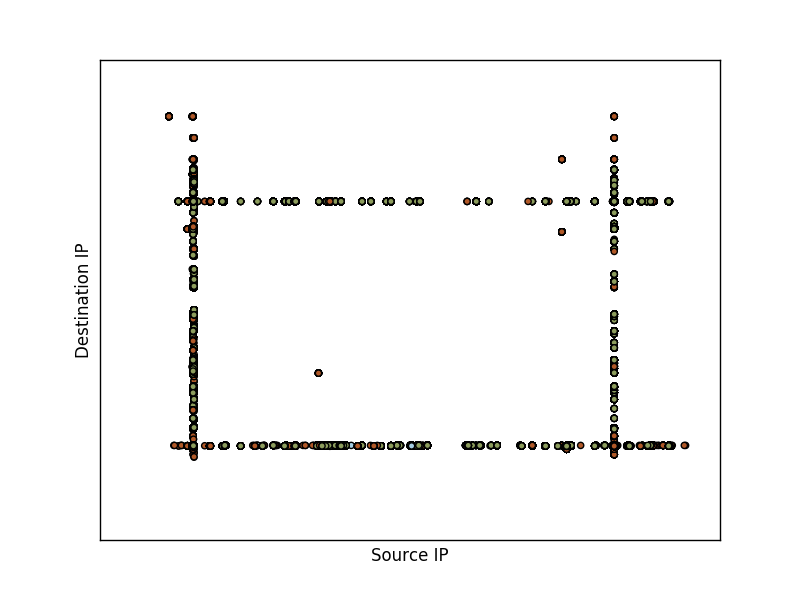
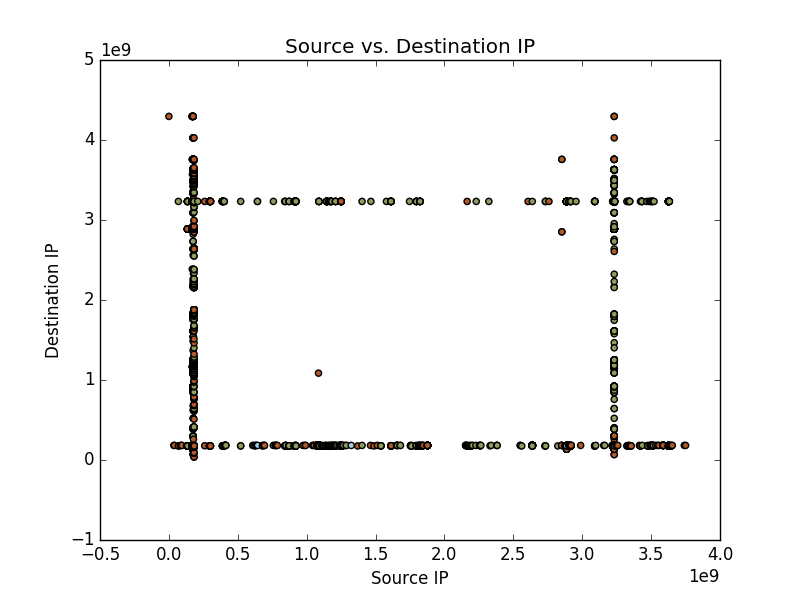
Updated feature graphs (greater performance); additional per-IP analysis graphs

diff --git a/NCCDC/csv_to_graph.py b/NCCDC/csv_to_graph.py
@@ -10,15 +10,19 @@ Example:
 
 Author: chris.sampson@naimuri.com
 '''
+'''int:    Bits representing TCP Flags'''
+# FLAG_FIN = 1
+
 import logging.config, yaml
 import sys, getopt, os.path, struct, socket
 from timeit import default_timer as timer
 
+import matplotlib
+
 import matplotlib.pyplot as plt
 import numpy as np
 
-'''int:    Bits representing TCP Flags'''
-# FLAG_FIN = 1
+
 FLAG_SYN = 2
 # FLAG_RST = 4
 # FLAG_PSH = 8
@@ -75,6 +79,29 @@ def _ipv4_int_to_dotted(ip_address):
     '''
     return socket.inet_ntoa(struct.pack("!L", int(ip_address)))
 
+def _start_plot():
+    # create a new figure
+    fig = plt.figure(figsize=(8, 6))
+    plt.clf()
+
+    return fig
+
+def _finish_plot(title, output_dir=None, output_file=None):
+
+    # add title
+    plt.title(title)
+
+    # scale to axes
+    plt.autoscale(tight=False)
+
+    if output_dir is None or output_file is None:
+        # display the graph
+        plt.show()
+    else:
+        # save image to output dir
+        plt.savefig(os.path.join(output_dir, output_file))
+    plt.close()
+
 def _draw_scatter_graph(x_points, y_points, point_labels, x_title, y_title, title, output_dir=None, output_file=None, cmap_name='Paired'):
     '''
     Draw a 2D scatter graph using matplotlib and either save to output_dir or display to user
@@ -82,8 +109,7 @@ def _draw_scatter_graph(x_points, y_points, point_labels, x_title, y_title, titl
     step_start = timer()
 
     # create a new figure
-    plt.figure(figsize=(8, 6))
-    plt.clf()
+    _start_plot()
 
     # plot the points
     plt.scatter(x_points, y_points, c=point_labels, cmap=plt.cm.get_cmap(cmap_name))
@@ -92,21 +118,31 @@ def _draw_scatter_graph(x_points, y_points, point_labels, x_title, y_title, titl
     plt.xlabel(x_title)
     plt.ylabel(y_title)
 
-    # add title
-    plt.title(title)
+    # complete and save/show the plot
+    _finish_plot(title, output_dir, output_file)
 
-    # scale to axes
-    plt.autoscale(tight=False)
+    logger.debug("%s plotted %d points (seconds): %f", title, len(x_points), timer() - step_start)
 
-    if output_dir is None or output_file is None:
-        # display the graph
-        plt.show()
-    else:
-        # save image to output dir
-        plt.savefig(os.path.join(output_dir, output_file))
-    plt.close()
+def _draw_line_graph(x_points, y_points, x_title, y_title, title, output_dir=None, output_file=None):
+    '''
+    Draw a 2D line graph using matplotlib and either save to output_dir or display to user
+    '''
+    step_start = timer()
 
-    logger.debug("%s plotted %d points (seconds): %f", title, len(point_labels), timer() - step_start)
+    # create a new figure
+    _start_plot()
+
+    # plot the points
+    plt.plot(x_points, y_points, linestyle='-', markers='o', color='r')
+
+    # add axis labels
+    plt.xlabel(x_title)
+    plt.ylabel(y_title)
+
+    # complete and save/show the plot
+    _finish_plot(title, output_dir, output_file)
+
+    logger.debug("%s plotted %d points (seconds): %f", title, len(x_points), timer() - step_start)
 
 def _draw_pie_chart(sizes, labels, colours, title, explode=None, output_dir=None, output_file=None):
     '''
@@ -115,8 +151,7 @@ def _draw_pie_chart(sizes, labels, colours, title, explode=None, output_dir=None
     step_start = timer()
 
     # create a new figure
-    plt.figure(figsize=(8, 6))
-    plt.clf()
+    _start_plot()
 
     # plot the areas
     plt.pie(sizes, explode=explode, labels=labels, colors=colours, autopct='%1.1f%%', shadow=True, startangle=90)
@@ -124,19 +159,8 @@ def _draw_pie_chart(sizes, labels, colours, title, explode=None, output_dir=None
     # set aspect ratio to be equal so that pie is drawn as a circle.
     plt.axis('equal')
 
-    # add title
-    plt.title(title)
-
-    # scale to axes
-    plt.autoscale(tight=False)
-
-    if output_dir is None or output_file is None:
-        # display the graph
-        plt.show()
-    else:
-        # save image to output dir
-        plt.savefig(os.path.join(output_dir, output_file))
-    plt.close()
+    # complete and save/show the plot
+    _finish_plot(title, output_dir, output_file)
 
     logger.debug("%s plotted %d areas (seconds): %f", title, len(sizes), timer() - step_start)
 
@@ -313,13 +337,6 @@ def plot_csv_features(csv_file, lower_bounds, output_dir=None, num_records=None,
             sources[d] = len(dst_data)
             d += 1
 
-        # TODO: graph each Destination IP individually, with sub-plots:
-        #    * (scatter) dst port vs. Source IP
-        #    * (scatter) dst port time series plot
-        #    * (pie chart) total connections received/sent
-        #    * (pie chart) total bytes received/sent
-        #    * (bar) #connections over time (5 minute intervals?)
-        #    * (bar) bytes received over time (5 minute intervals?)
         # output IP destination graphs (if there are enough incoming connections to make it seem like we'd care...)
         recv_conns = num_connections
         if len(dst_data) > 0 and recv_conns > lower_bounds:
@@ -328,31 +345,51 @@ def plot_csv_features(csv_file, lower_bounds, output_dir=None, num_records=None,
             dst_dir = os.path.join(dst_analysis_dir, dst_str)
             os.makedirs(dst_dir, exist_ok=True)
 
+            # graph each Destination IP for:
+            #    * (scatter) dst port vs. Source IP
+            # subplots for:
+            #    * (pie chart) total connections received/sent
+            #    * (pie chart) total bytes received/sent
+            # subplots for:
+            #    * (scatter) dst port time series plot
+            #    * (bar) #connections over time (5 minute intervals?)
+            #    * (bar) bytes received over time (5 minute intervals?)
+
             # plot Destination Ports vs. Source IP (indicating protocols used)
-            _draw_scatter_graph(dst_data[COL_DEST_PORT], dst_data[COL_SOURCE_IP], dst_data[COL_PROTOCOL], 'Destination Port', 'Source IP', _ipv4_int_to_dotted(dst_ip), dst_dir, 'ports_and_sources.png')
+            unique_data = _get_unique_rows(dst_data, [COL_DEST_PORT, COL_SOURCE_IP, COL_PROTOCOL])
+            _draw_scatter_graph(unique_data[COL_DEST_PORT], unique_data[COL_SOURCE_IP], unique_data[COL_PROTOCOL], 'Destination Port', 'Source IP', _ipv4_int_to_dotted(dst_ip), dst_dir, 'ports_and_sources.png')
             num_graphs += 1
 
-            # time-series plot of single Destination IP (indicating Source IPs)
-            _draw_scatter_graph(dst_data[COL_TIME], dst_data[COL_DEST_PORT], dst_data[COL_SOURCE_IP], 'Time', 'Destination Port', _ipv4_int_to_dotted(dst_ip), dst_dir, 'ports_over_time.png')
-            num_graphs += 1
-
-            # TODO: plot received #connections over time
-            # num_graphs += 1
-
-            # TODO: plot bytes received over time
-            # num_graphs += 1
-
-            # plot Received vs. Sent connections
+            # plot total Received vs. Sent connections
             dst_rec = ips[dst_ip]
             sent_conns = dst_rec['sent_connections']
             # sizes, labels, colours, title, explode=None, output_dir=None, output_file=None
-            _draw_pie_chart([recv_conns, sent_conns], ['#Received', '#Sent'], ['red', 'green'], 'IP Connections', [0.1, 0], dst_dir, 'ip_connections.png')
+            _draw_pie_chart([recv_conns, sent_conns], ['#Received', '#Sent'], ['r', 'g'], 'IP Connections', [0.1, 0], dst_dir, 'ip_connections.png')
             num_graphs += 1
 
-            # plot Received vs. Sent bytes
+            # plot total Received vs. Sent bytes
             recv_bytes = total_bytes
             sent_bytes = dst_rec['sent_bytes']
-            _draw_pie_chart([recv_bytes, sent_bytes], ['Received', 'Sent'], ['red', 'green'], 'IP Data (Bytes)', [0.1, 0], dst_dir, 'ip_bytes.png')
+            _draw_pie_chart([recv_bytes, sent_bytes], ['Received', 'Sent'], ['r', 'g'], 'IP Data (Bytes)', [0.1, 0], dst_dir, 'ip_bytes.png')
+            num_graphs += 1
+
+            # time-series plot of single Destination IP (indicating Source IPs)
+            # unlikely there will be many duplicates when time being considered
+            _draw_scatter_graph(dst_data[COL_TIME], dst_data[COL_DEST_PORT], dst_data[COL_SOURCE_IP], 'Time / ms', 'Destination Port', _ipv4_int_to_dotted(dst_ip), dst_dir, 'ports_over_time.png')
+            num_graphs += 1
+
+            # plot received #connections over time (cumulative sum of connections along the time-sorted array)
+            # get the times from the packet data
+            t = np.array(dst_data[COL_TIME])
+            # create a 2S array of 1s, the same length as the number of connections (times)
+            a = np.ones([len(t), 2])
+            # insert the connection times at index 0, then use the additional column of 1s for the cumsum operation
+            a[:, 0] = t
+            _draw_line_graph(a[:, 0], np.cumsum(a, 1), 'Time/ms', '#Connections', 'Connections Received / Time', dst_dir, 'connections_over_time.png')
+            num_graphs += 1
+
+            # plot bytes received over time (cumulative sum of packet lengths along the time-sorted array)
+            _draw_line_graph(dst_data[COL_TIME], np.cumsum(dst_data[COL_LENGTH]), 'Time / ms', 'Bytes Received', 'Bytes Received / Time', dst_dir, 'bytes_over_time.png')
             num_graphs += 1
 
         num_ips += 1
